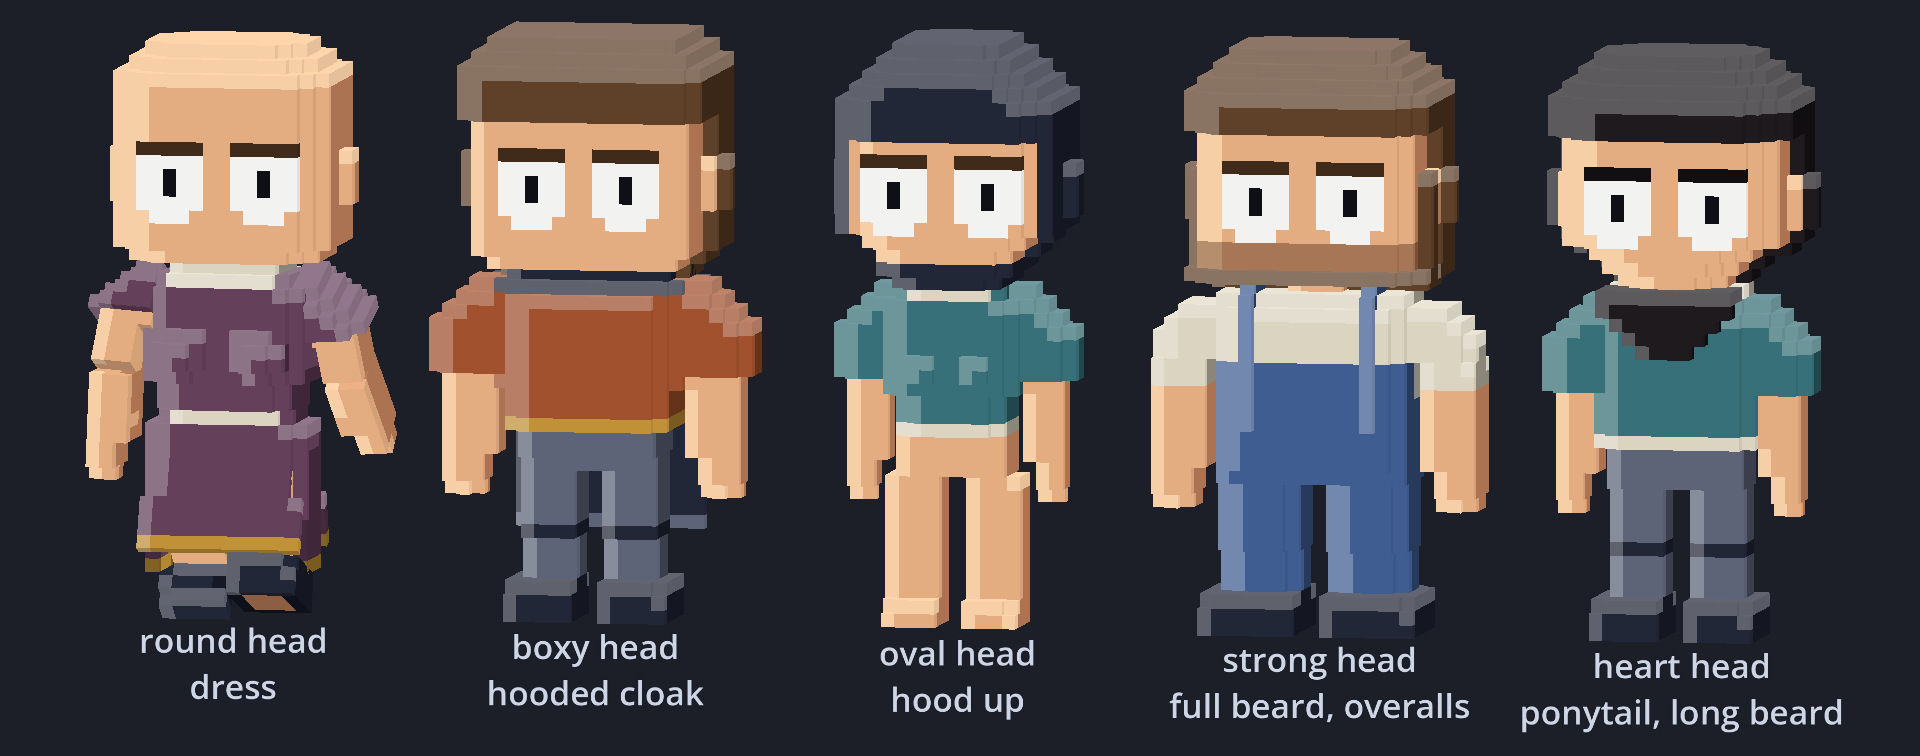
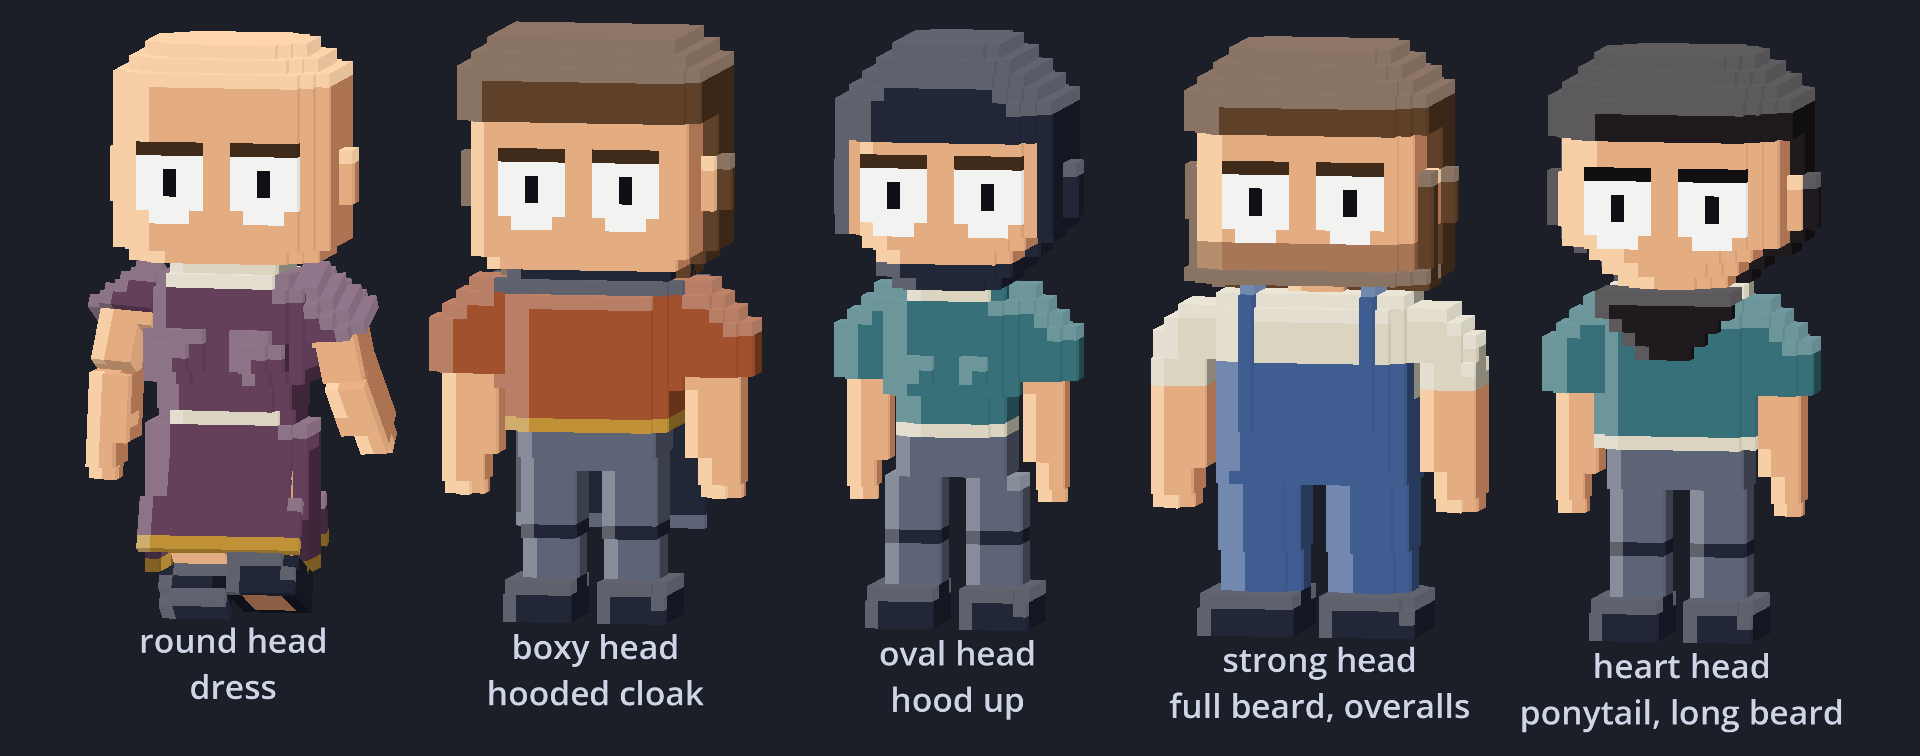
Straps match the cloth they lie on; dress the hood review figure
- A strap one voxel wide is all edge, so the baked lighting gave every voxel
  the light shade and the overalls' suspenders read lighter than the bib and
  trousers. A special shape's claim can now fix its own shade; straps use
  mid in front, dark behind and light on top -- what a flat garment's faces
  get there. Test: on every body the straps of the overalls outfit have
  exactly those shades.
- StrapGenerator measured the row below the chest's top (an off-by-one on
  an inclusive bound). It now uses the top row; same fix in two tests.
- The "hood up" figure on the specials sheet wore only a hood and a tunic.
  It now has trousers and boots.

1494 checks pass.

Claude-Session: https://claude.ai/code/session_01EovwGUjKAJxTGWSNshY1KA

Changed region(s): [[0.4375, 0.578, 0.5625, 0.8519], [0.6875, 0.3955, 0.7188, 0.578], [0.625, 0.3955, 0.6562, 0.578]]

diff --git a/docs/NOTES.md b/docs/NOTES.md
@@ -11,7 +11,7 @@ which parts are solid and which are guesses.
 
 ## 1. Verification status
 
-**Everything compiles and the acceptance suite is green: 1488 checks, 0 failures.**
+**Everything compiles and the acceptance suite is green: 1494 checks, 0 failures.**
 
 ```bash
 tests/run.sh                 # measures the assets, then runs the Godot suite
@@ -489,6 +489,11 @@ the upper chest is a quarter of it. So:
 - The bib is skin-tight, so under a thick top (the starter tunic) it is
   hidden by the layering rule; raise its bulk to wear it over one.
 - Not yet verified: whether the bib alone reads as an apron.
+- **Straps take the shade of the cloth they lie on.** A strap one voxel wide
+  is all edge, so the baked lighting made every voxel the light shade and the
+  overalls' straps read lighter than the bib (owner noticed). A special's
+  claim can now fix its own shade; straps use mid in front, dark behind and
+  light on top, which is what a flat garment's faces get there.
 
 ## 5. Still open, for the owner
 

diff --git a/README.md b/README.md
@@ -62,7 +62,7 @@ same character assembled the way the game will do it, with no editor involved.
 ## Tests
 
 Every acceptance check in `SPEC.md` section 12 is an automated test.
-**1488 checks, all passing** on Godot 4.7.2.
+**1494 checks, all passing** on Godot 4.7.2.
 
 ```bash
 godot --headless --path . --script res://tests/run_tests.gd
